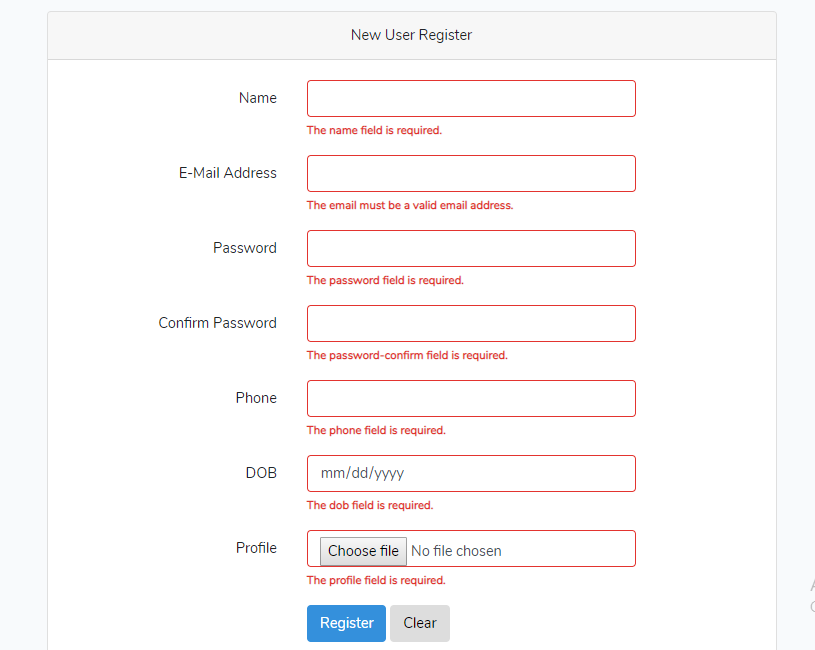
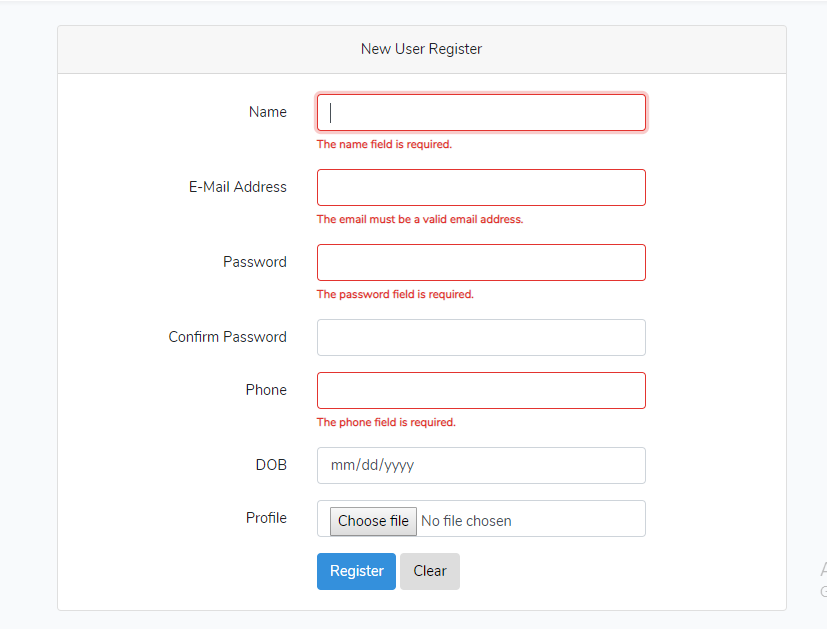
push image for reg

diff --git a/resources/views/auth/register.blade.php b/resources/views/auth/register.blade.php
@@ -62,12 +62,6 @@
 
                             <div class="col-md-6">
                                 <input id="password-confirm" name="password-confirm" type="password" class="form-control{{ $errors->has('password-confirm') ? ' is-invalid' : '' }}" password-confirm>
-
-                                @if ($errors->has('password-confirm'))
-                                    <span class="invalid-feedback" role="alert">
-                                        <strong>{{ $errors->first('password-confirm') }}</strong>
-                                    </span>
-                                @endif
                             </div>
                         </div>
 
@@ -90,12 +84,6 @@
 
                             <div class="col-md-6">
                                 <input id="dob" name="dob" type="date" class="form-control{{ $errors->has('dob') ? ' is-invalid' : '' }}" dob="dob" value="{{ old('dob') }}"  autofocus>
-
-                                @if ($errors->has('dob'))
-                                    <span class="invalid-feedback" role="alert">
-                                        <strong>{{ $errors->first('dob') }}</strong>
-                                    </span>
-                                @endif
                             </div>
                         </div>
 
@@ -104,12 +92,6 @@
 
                             <div class="col-md-6">
                                 <input id="profile" name="profile" type="file" class="form-control{{ $errors->has('profile') ? ' is-invalid' : '' }}" profile="profile" value="{{ old('profile') }}"  autofocus>
-
-                                @if ($errors->has('profile'))
-                                    <span class="invalid-feedback" role="alert">
-                                        <strong>{{ $errors->first('profile') }}</strong>
-                                    </span>
-                                @endif
                             </div>
                         </div>
 

diff --git a/app/Http/Controllers/Auth/RegisterController.php b/app/Http/Controllers/Auth/RegisterController.php
@@ -70,10 +70,8 @@ class RegisterController extends Controller
             'name' => 'required',
             'email' => 'email|required|unique:users',
             'password' => 'required',
-            'password-confirm' => 'required|same:password',
+            'password-confirm' => 'same:password',
             'phone' => 'required',
-            'dob' => 'required',
-            'profile' => 'required',
 
         ]);
     }
